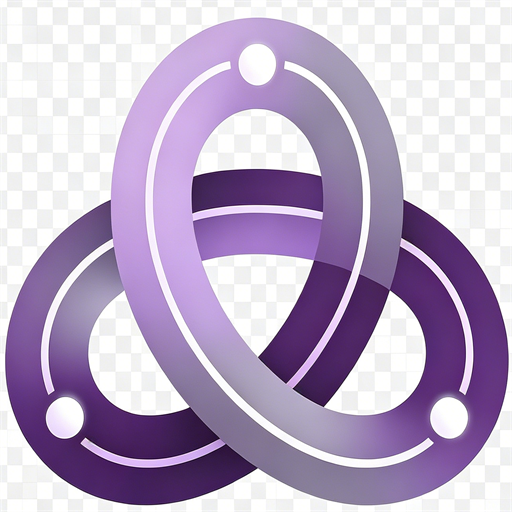
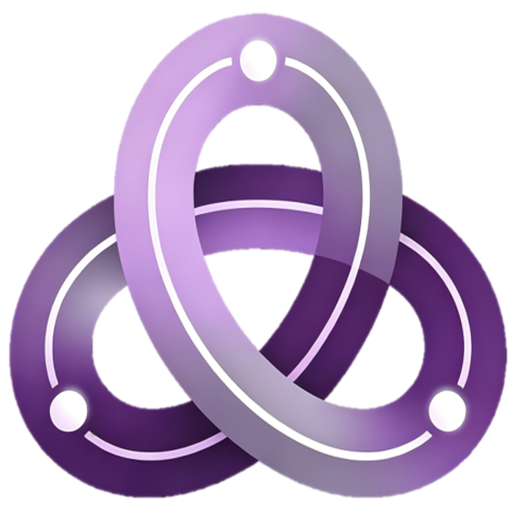
feat: 优化logo——社区header大横版品牌logo + 主站首页logo + 全透明底

diff --git a/community/index.html b/community/index.html
@@ -30,7 +30,7 @@
 
   <main class="container">
     <div class="community-header">
-      <h1>🔭 观测者社区</h1>
+      <img src="../static/logo-horizontal-v2.png" alt="量子弦之链" class="header-logo">
       <p class="subtitle-en">Observer Community</p>
       <p class="subtitle">量子通信 · 弦理论 · 区块链 · 思想碰撞</p>
       <p class="intro-text">观测，即参与。这里是观测者们的角落，聊科学、聊技术、聊哲学，聊一切值得聊的。</p>

diff --git a/community/style.css b/community/style.css
@@ -167,7 +167,13 @@ body {
 /* ====== 社区头部 ====== */
 .community-header {
   text-align: center;
-  padding: 40px 0 24px;
+  padding: 36px 0 24px;
+}
+.header-logo {
+  max-width: 100%;
+  height: auto;
+  width: 500px;
+  margin-bottom: 16px;
 }
 .community-header h1 {
   font-size: 2rem;
@@ -638,4 +644,5 @@ hr {
   .nav-inner { flex-wrap: wrap; gap: 8px; }
   .nav-links { order: 3; flex-basis: 100%; }
   .community-header h1 { font-size: 1.5rem; }
+  .header-logo { width: 320px; }
 }

diff --git a/content/index.md b/content/index.md
@@ -5,6 +5,8 @@ description: Quantum String — 基于量子通信、弦理论与区块链技术
 
 # 量子弦之链 · Quantum String
 
+<p align="center"><img src="/static/logo-horizontal-v2.png" alt="量子弦之链" width="600" style="max-width:100%;height:auto;"></p>
+
 一个以量子通信为信道、弦理论为认知框架、区块链为信任载体的思想记录站。
 
 ---
